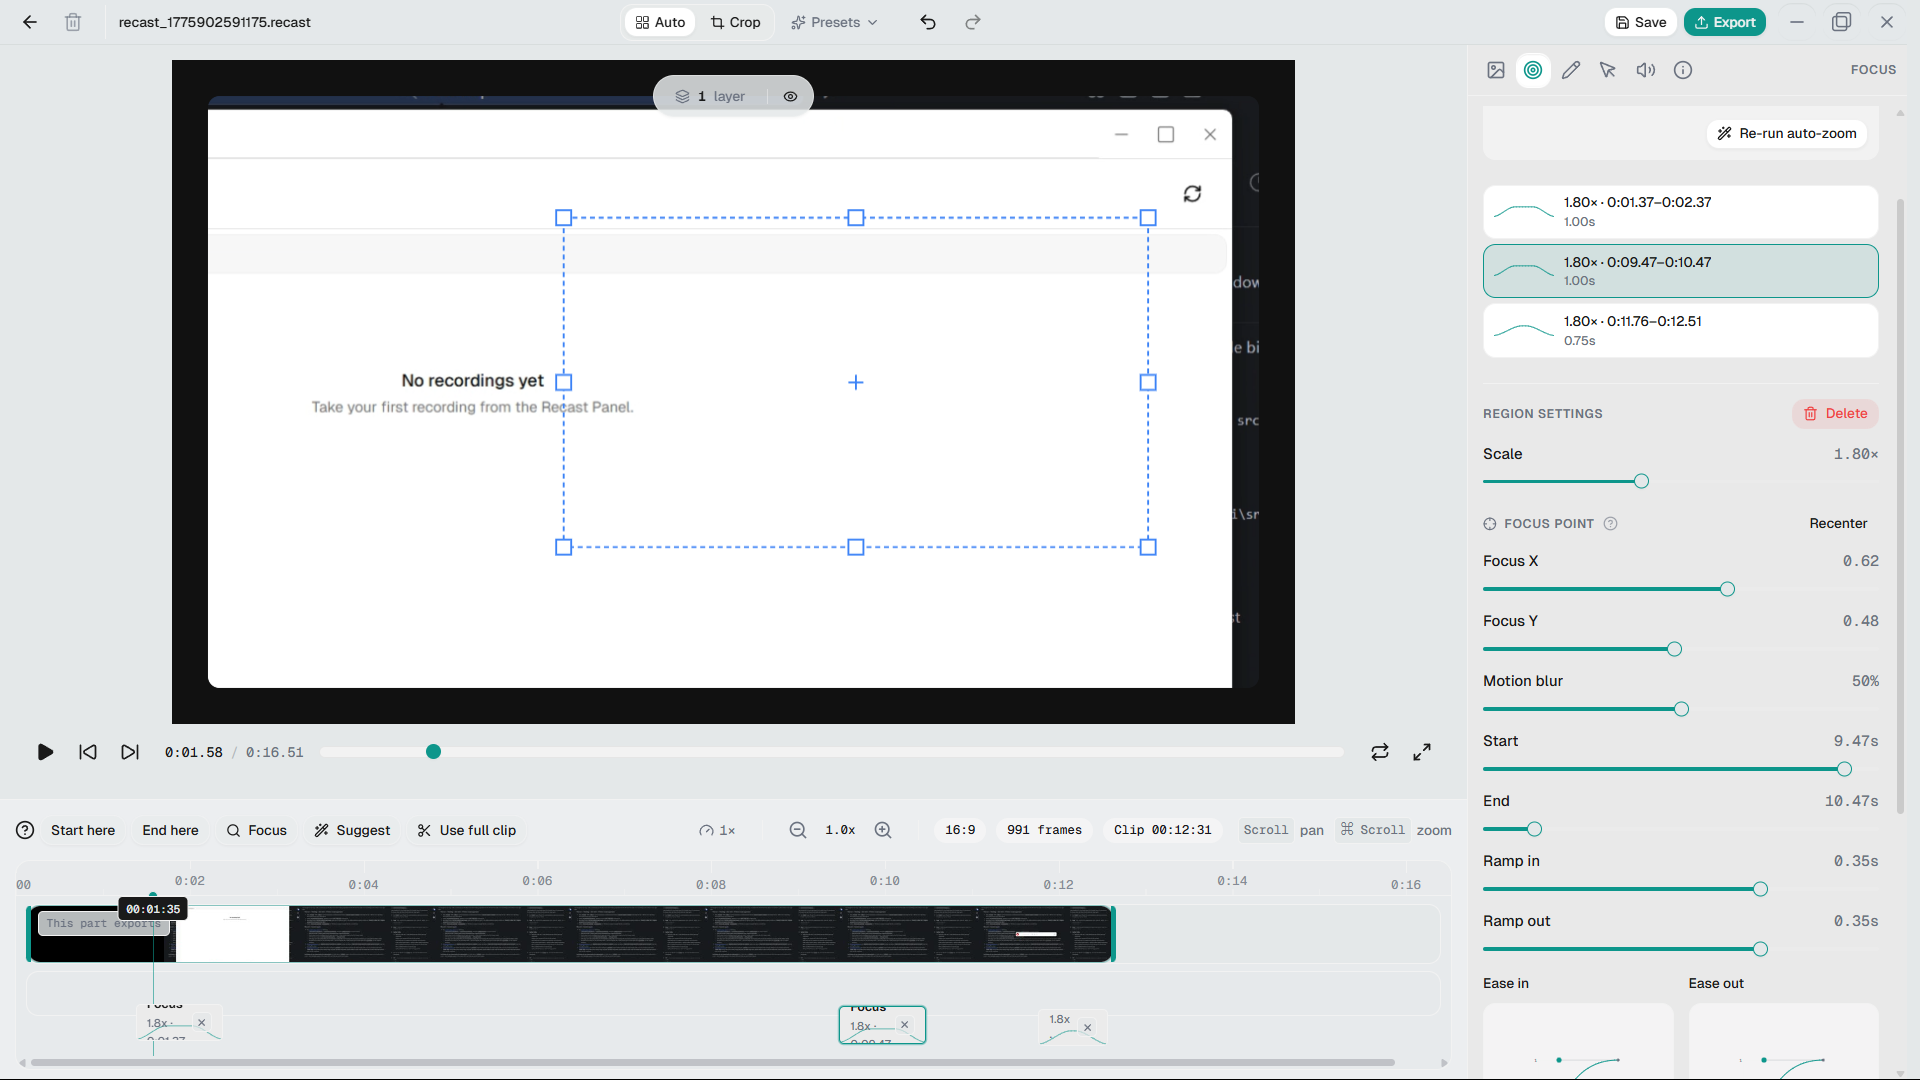
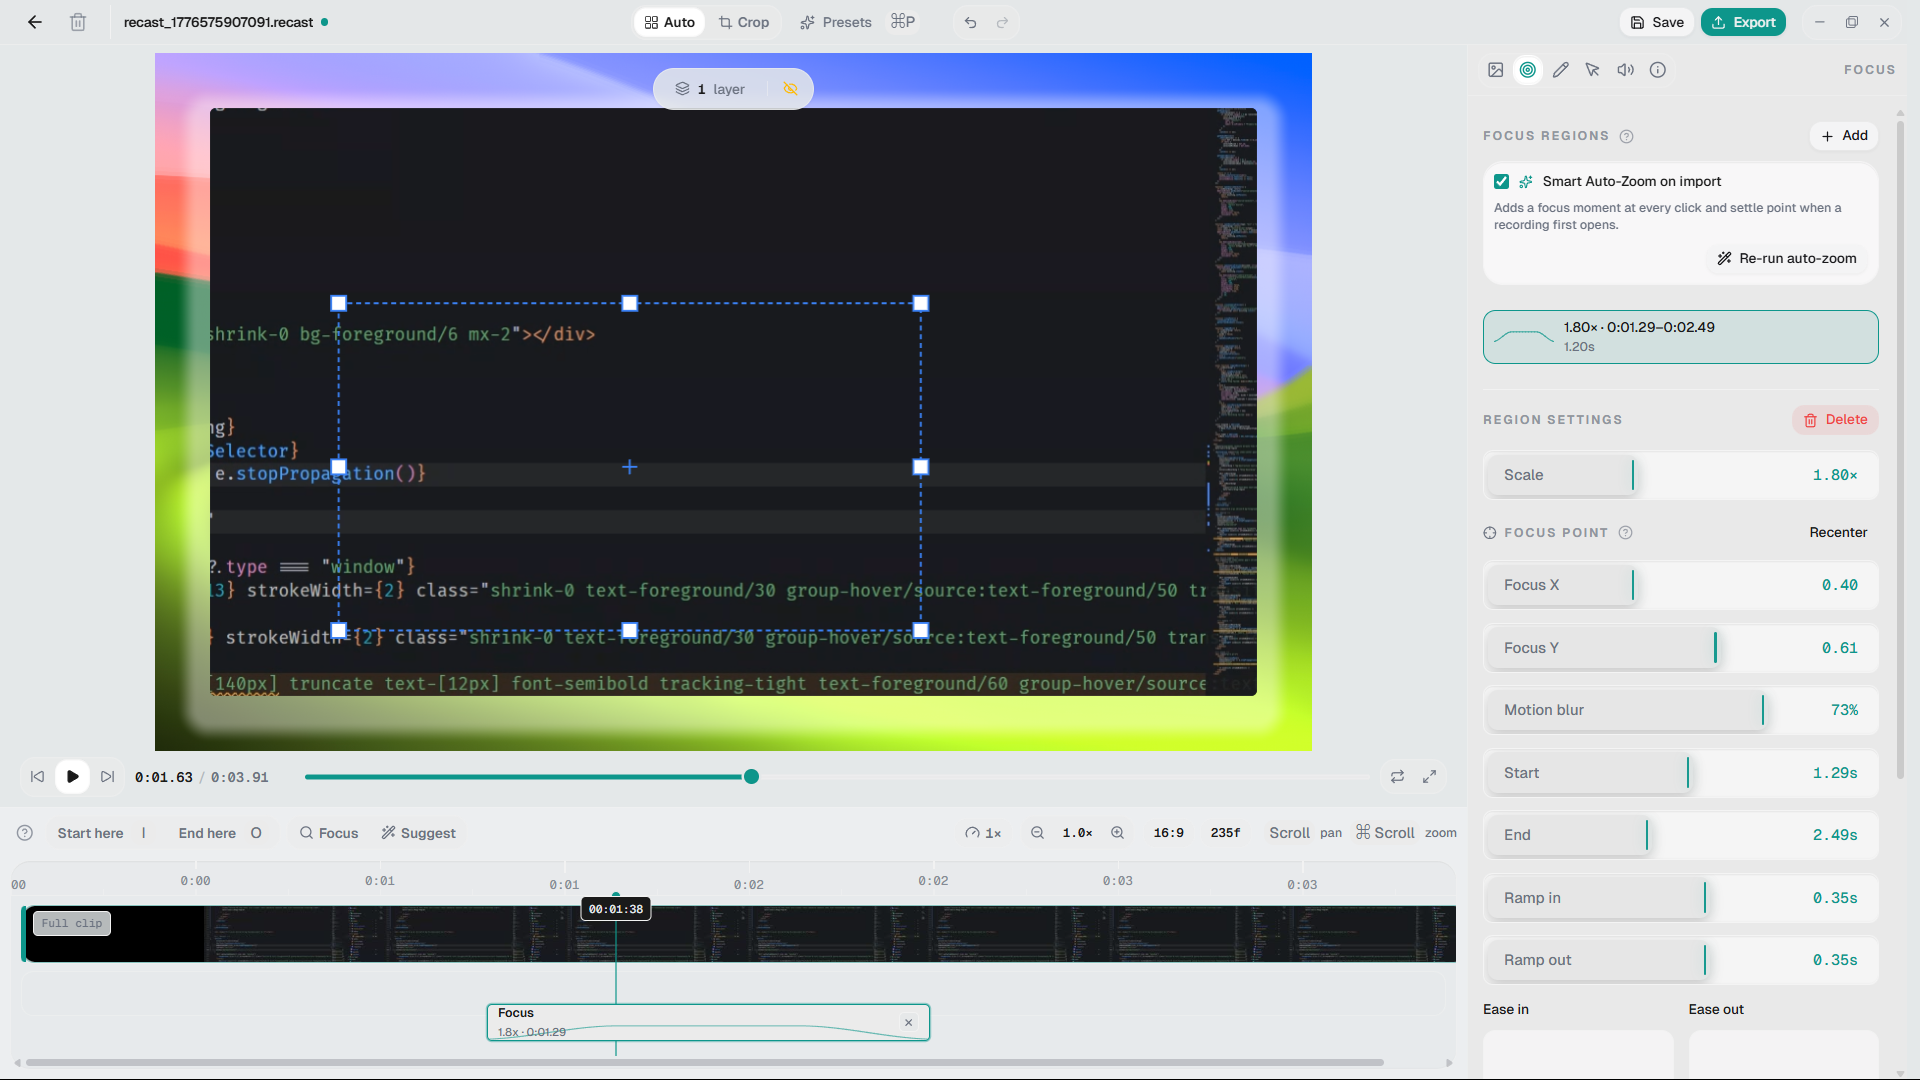
style: update typography and spacing for annotation panels and headers

diff --git a/apps/desktop/src/components/editor/properity-panel/BackgroundPicker.svelte b/apps/desktop/src/components/editor/properity-panel/BackgroundPicker.svelte
@@ -169,7 +169,7 @@
   <section>
     <header class="mb-2 flex items-center gap-1.5">
       <h3
-        class="text-[10px] font-semibold uppercase tracking-wider text-muted-foreground"
+        class="text-[10px] font-bold uppercase tracking-[0.15em] text-muted-foreground/70"
       >
         Canvas
       </h3>
@@ -178,7 +178,7 @@
       />
     </header>
     <div
-      class="flex items-center gap-0.5 rounded-md bg-muted/60 ring-1 ring-inset ring-border/40 p-0.5"
+      class="flex items-center gap-0.5 rounded-lg bg-muted/60 ring-1 ring-inset ring-border/40 p-0.5"
     >
       {#each backgroundModes as mode}
         {@const Icon = mode.icon}
@@ -207,7 +207,7 @@
     <section>
       <header class="mb-2 flex items-center justify-between gap-2">
         <h3
-          class="text-[10px] font-semibold uppercase tracking-wider text-muted-foreground"
+          class="text-[10px] font-bold uppercase tracking-[0.15em] text-muted-foreground/70"
         >
           Wallpapers
         </h3>
@@ -247,7 +247,7 @@
     <section>
       <header class="mb-2 flex items-center gap-1.5">
         <h3
-          class="text-[10px] font-semibold uppercase tracking-wider text-muted-foreground"
+          class="text-[10px] font-bold uppercase tracking-[0.15em] text-muted-foreground/70"
         >
           Color Fill
         </h3>
@@ -303,7 +303,7 @@
     <section>
       <header class="mb-2 flex items-center gap-1.5">
         <h3
-          class="text-[10px] font-semibold uppercase tracking-wider text-muted-foreground"
+          class="text-[10px] font-bold uppercase tracking-[0.15em] text-muted-foreground/70"
         >
           Gradients
         </h3>
@@ -344,7 +344,7 @@
       <header class="mb-2 flex items-center justify-between gap-2">
         <div class="flex items-center gap-1.5">
           <h3
-            class="text-[10px] font-semibold uppercase tracking-wider text-muted-foreground"
+            class="text-[10px] font-bold uppercase tracking-[0.15em] text-muted-foreground/70"
           >
             Image Background
           </h3>
@@ -393,7 +393,7 @@
   <section>
     <header class="mb-2 flex items-center gap-1.5">
       <h3
-        class="text-[10px] font-semibold uppercase tracking-wider text-muted-foreground"
+        class="text-[10px] font-bold uppercase tracking-[0.15em] text-muted-foreground/70"
       >
         Finishing
       </h3>
@@ -461,7 +461,7 @@
     <header class="mb-2 flex items-center justify-between gap-2">
       <div class="flex items-center gap-1.5">
         <h3
-          class="text-[10px] font-semibold uppercase tracking-wider text-muted-foreground"
+          class="text-[10px] font-bold uppercase tracking-[0.15em] text-muted-foreground/70"
         >
           Drop shadow
         </h3>

diff --git a/apps/desktop/src/components/editor/properity-panel/CursorPanel.svelte b/apps/desktop/src/components/editor/properity-panel/CursorPanel.svelte
@@ -57,7 +57,7 @@
     <div class="flex items-center justify-between gap-2">
       <div class="flex items-center gap-1.5">
         <h3
-          class="text-[10px] font-semibold uppercase tracking-wider text-muted-foreground"
+          class="text-[10px] font-bold uppercase tracking-[0.15em] text-muted-foreground/70"
         >
           Cursor
         </h3>
@@ -92,7 +92,7 @@
     <section>
       <header class="mb-2 flex items-center gap-1.5">
         <h3
-          class="text-[10px] font-semibold uppercase tracking-wider text-muted-foreground"
+          class="text-[10px] font-bold uppercase tracking-[0.15em] text-muted-foreground/70"
         >
           Style
         </h3>
@@ -140,7 +140,7 @@
     <section>
       <header class="mb-2 flex items-center gap-1.5">
         <h3
-          class="text-[10px] font-semibold uppercase tracking-wider text-muted-foreground"
+          class="text-[10px] font-bold uppercase tracking-[0.15em] text-muted-foreground/70"
         >
           Pointer
         </h3>
@@ -184,7 +184,7 @@
       <header class="mb-2 flex items-center justify-between gap-2">
         <div class="flex items-center gap-1.5">
           <h3
-            class="text-[10px] font-semibold uppercase tracking-wider text-muted-foreground"
+            class="text-[10px] font-bold uppercase tracking-[0.15em] text-muted-foreground/70"
           >
             Mouse smoothing
           </h3>
@@ -267,7 +267,7 @@
         </SliderControl>
 
         <div
-          class="flex items-center justify-between gap-2 rounded-md border border-border bg-card/40 px-2 py-1.5"
+          class="flex items-center justify-between gap-2 rounded-xl border border-border/60 bg-card/70 shadow-(--shadow-craft-inset) backdrop-blur px-2 py-1.5"
         >
           <div class="flex items-center gap-1.5">
             <Target size={11} class="text-muted-foreground" />
@@ -320,7 +320,7 @@
       <div class="mb-2 flex items-center justify-between gap-2">
         <div class="flex items-center gap-1.5">
           <h3
-            class="text-[10px] font-semibold uppercase tracking-wider text-muted-foreground"
+            class="text-[10px] font-bold uppercase tracking-[0.15em] text-muted-foreground/70"
           >
             Motion easing
           </h3>
@@ -357,7 +357,7 @@
       <div class="mb-2 flex items-center justify-between gap-2">
         <div class="flex items-center gap-1.5">
           <h3
-            class="text-[10px] font-semibold uppercase tracking-wider text-muted-foreground"
+            class="text-[10px] font-bold uppercase tracking-[0.15em] text-muted-foreground/70"
           >
             Click Highlight
           </h3>
@@ -429,7 +429,7 @@
       <div class="mb-2 flex items-center justify-between gap-2">
         <div class="flex items-center gap-1.5">
           <h3
-            class="text-[10px] font-semibold uppercase tracking-wider text-muted-foreground"
+            class="text-[10px] font-bold uppercase tracking-[0.15em] text-muted-foreground/70"
           >
             Idle Behavior
           </h3>

diff --git a/apps/desktop/src/components/editor/properity-panel/AnnotationsPanel.svelte b/apps/desktop/src/components/editor/properity-panel/AnnotationsPanel.svelte
@@ -230,7 +230,7 @@
     <div class="flex items-center justify-between gap-2">
       <div class="flex items-center gap-1.5">
         <h3
-          class="text-[10px] font-semibold uppercase tracking-wider text-muted-foreground"
+          class="text-[10px] font-bold uppercase tracking-[0.15em] text-muted-foreground/70"
         >
           Annotations
         </h3>
@@ -323,7 +323,7 @@
     <section class="flex flex-col gap-3 border-t border-border pt-3">
       <header class="flex items-center justify-between gap-2">
         <h3
-          class="text-[10px] font-semibold uppercase tracking-wider text-muted-foreground"
+          class="text-[10px] font-bold uppercase tracking-[0.15em] text-muted-foreground/70"
         >
           {kindLabel(a)}
         </h3>
@@ -458,7 +458,7 @@
       {#if a.kind.kind === "text"}
         <div class="space-y-2.5 border-t border-border pt-3">
           <h3
-            class="text-[10px] font-semibold uppercase tracking-wider text-muted-foreground"
+            class="text-[10px] font-bold uppercase tracking-[0.15em] text-muted-foreground/70"
           >
             Text
           </h3>
@@ -627,7 +627,7 @@
     </section>
   {:else}
     <section
-      class="rounded-md border border-border bg-card/40 px-3 py-3 text-center text-[10px] text-muted-foreground"
+      class="rounded-xl border border-border/60 bg-card/70 shadow-(--shadow-craft-inset) backdrop-blur px-3 py-3 text-center text-[10px] text-muted-foreground"
     >
       Select an annotation to edit its timing, curves, and appearance.
     </section>
@@ -638,7 +638,7 @@
     class="rounded-md border border-dashed border-border bg-card/30 px-3 py-2.5"
   >
     <p
-      class="text-[10px] font-semibold uppercase tracking-wider text-muted-foreground"
+      class="text-[10px] font-bold uppercase tracking-[0.15em] text-muted-foreground/70"
     >
       Coming next
     </p>

diff --git a/apps/desktop/src/components/editor/properity-panel/AudioPanel.svelte b/apps/desktop/src/components/editor/properity-panel/AudioPanel.svelte
@@ -173,7 +173,7 @@
     <div class="flex items-center justify-between gap-2">
       <div class="flex items-center gap-1.5">
         <h3
-          class="text-[10px] font-semibold uppercase tracking-wider text-muted-foreground"
+          class="text-[10px] font-bold uppercase tracking-[0.15em] text-muted-foreground/70"
         >
           Audio
         </h3>
@@ -289,7 +289,7 @@
   <section>
     <header class="mb-2 flex items-center gap-1.5">
       <h3
-        class="text-[10px] font-semibold uppercase tracking-wider text-muted-foreground"
+        class="text-[10px] font-bold uppercase tracking-[0.15em] text-muted-foreground/70"
       >
         Tracks
       </h3>
@@ -346,7 +346,7 @@
   <section>
     <header class="mb-2 flex items-center gap-1.5">
       <h3
-        class="text-[10px] font-semibold uppercase tracking-wider text-muted-foreground"
+        class="text-[10px] font-bold uppercase tracking-[0.15em] text-muted-foreground/70"
       >
         Mix
       </h3>
@@ -377,7 +377,7 @@
     <header class="mb-2 flex items-center justify-between gap-2">
       <div class="flex items-center gap-1.5">
         <h3
-          class="text-[10px] font-semibold uppercase tracking-wider text-muted-foreground"
+          class="text-[10px] font-bold uppercase tracking-[0.15em] text-muted-foreground/70"
         >
           Fades
         </h3>

diff --git a/apps/desktop/src/components/editor/properity-panel/FocusPanel.svelte b/apps/desktop/src/components/editor/properity-panel/FocusPanel.svelte
@@ -158,7 +158,7 @@
   <section class="flex flex-col gap-2">
     <div class="flex items-center justify-between gap-2">
       <div class="flex items-center gap-1.5">
-        <h3 class="text-[10px] font-semibold uppercase tracking-wider text-muted-foreground">
+        <h3 class="text-[10px] font-bold uppercase tracking-[0.15em] text-muted-foreground/70">
           Focus regions
         </h3>
         <InspectorHint
@@ -172,7 +172,7 @@
     </div>
 
     <!-- Smart Auto-Zoom controls -->
-    <div class="flex flex-col gap-1.5 rounded-md border border-border bg-card/40 p-2">
+    <div class="flex flex-col gap-1.5 rounded-xl border border-border/60 bg-card/70 shadow-(--shadow-craft-inset) backdrop-blur p-2">
       <label class="flex items-center gap-2 text-[11px] text-foreground">
         <input
           type="checkbox"
@@ -268,7 +268,7 @@
     {@const maxRamp = regionMaxRamp(region)}
     <section class="flex flex-col gap-3 border-t border-border pt-3">
       <header class="flex items-center justify-between gap-2">
-        <h3 class="text-[10px] font-semibold uppercase tracking-wider text-muted-foreground">
+        <h3 class="text-[10px] font-bold uppercase tracking-[0.15em] text-muted-foreground/70">
           Region settings
         </h3>
         <Button
@@ -298,7 +298,7 @@
         <div class="flex items-center justify-between gap-2 pt-1">
           <div class="flex items-center gap-1.5">
             <Crosshair size={11} class="text-muted-foreground" />
-            <span class="text-[10px] font-semibold uppercase tracking-wider text-muted-foreground">
+            <span class="text-[10px] font-bold uppercase tracking-[0.15em] text-muted-foreground/70">
               Focus point
             </span>
             <InspectorHint

diff --git a/apps/desktop/src/components/editor/properity-panel/annotations/AnnotationAppearance.svelte b/apps/desktop/src/components/editor/properity-panel/annotations/AnnotationAppearance.svelte
@@ -108,7 +108,7 @@
 
 <section class="flex flex-col gap-3 border-t border-border pt-3">
   <header class="flex items-center justify-between gap-2">
-    <h3 class="text-[10px] font-semibold uppercase tracking-wider text-muted-foreground">
+    <h3 class="text-[10px] font-bold uppercase tracking-[0.15em] text-muted-foreground/70">
       Appearance
     </h3>
     <InspectorHint
@@ -207,7 +207,7 @@
   {#if hasFill}
     <!-- Fill -->
     <div class="space-y-2">
-      <p class="text-[10px] font-semibold uppercase tracking-wider text-muted-foreground">
+      <p class="text-[10px] font-bold uppercase tracking-[0.15em] text-muted-foreground/70">
         Fill
       </p>
       <div class="flex flex-wrap items-center gap-1">
@@ -280,7 +280,7 @@
   <!-- Glow disclosure -->
   <div class="space-y-2 rounded-md border border-border bg-card/30 p-2">
     <div class="flex items-center justify-between gap-2">
-      <span class="inline-flex items-center gap-1.5 text-[10px] font-semibold uppercase tracking-wider text-muted-foreground">
+      <span class="inline-flex items-center gap-1.5 text-[10px] font-bold uppercase tracking-[0.15em] text-muted-foreground/70">
         <Sparkles size={10} />
         Glow
       </span>

diff --git a/apps/desktop/src/components/editor/properity-panel/annotations/AnnotationGeometry.svelte b/apps/desktop/src/components/editor/properity-panel/annotations/AnnotationGeometry.svelte
@@ -111,7 +111,7 @@
 </script>
 
 <section class="flex flex-col gap-2 border-t border-border pt-3">
-  <h3 class="text-[10px] font-semibold uppercase tracking-wider text-muted-foreground">
+  <h3 class="text-[10px] font-bold uppercase tracking-[0.15em] text-muted-foreground/70">
     Geometry
   </h3>
 

diff --git a/apps/desktop/src/components/editor/properity-panel/annotations/AnnotationLayerPanel.svelte b/apps/desktop/src/components/editor/properity-panel/annotations/AnnotationLayerPanel.svelte
@@ -118,7 +118,7 @@
 
 <section class="flex flex-col gap-1">
   <header class="flex items-center justify-between">
-    <h3 class="text-[10px] font-semibold uppercase tracking-wider text-muted-foreground">
+    <h3 class="text-[10px] font-bold uppercase tracking-[0.15em] text-muted-foreground/70">
       Layers
     </h3>
     <span class="text-[10px] tabular-nums text-muted-foreground/70">